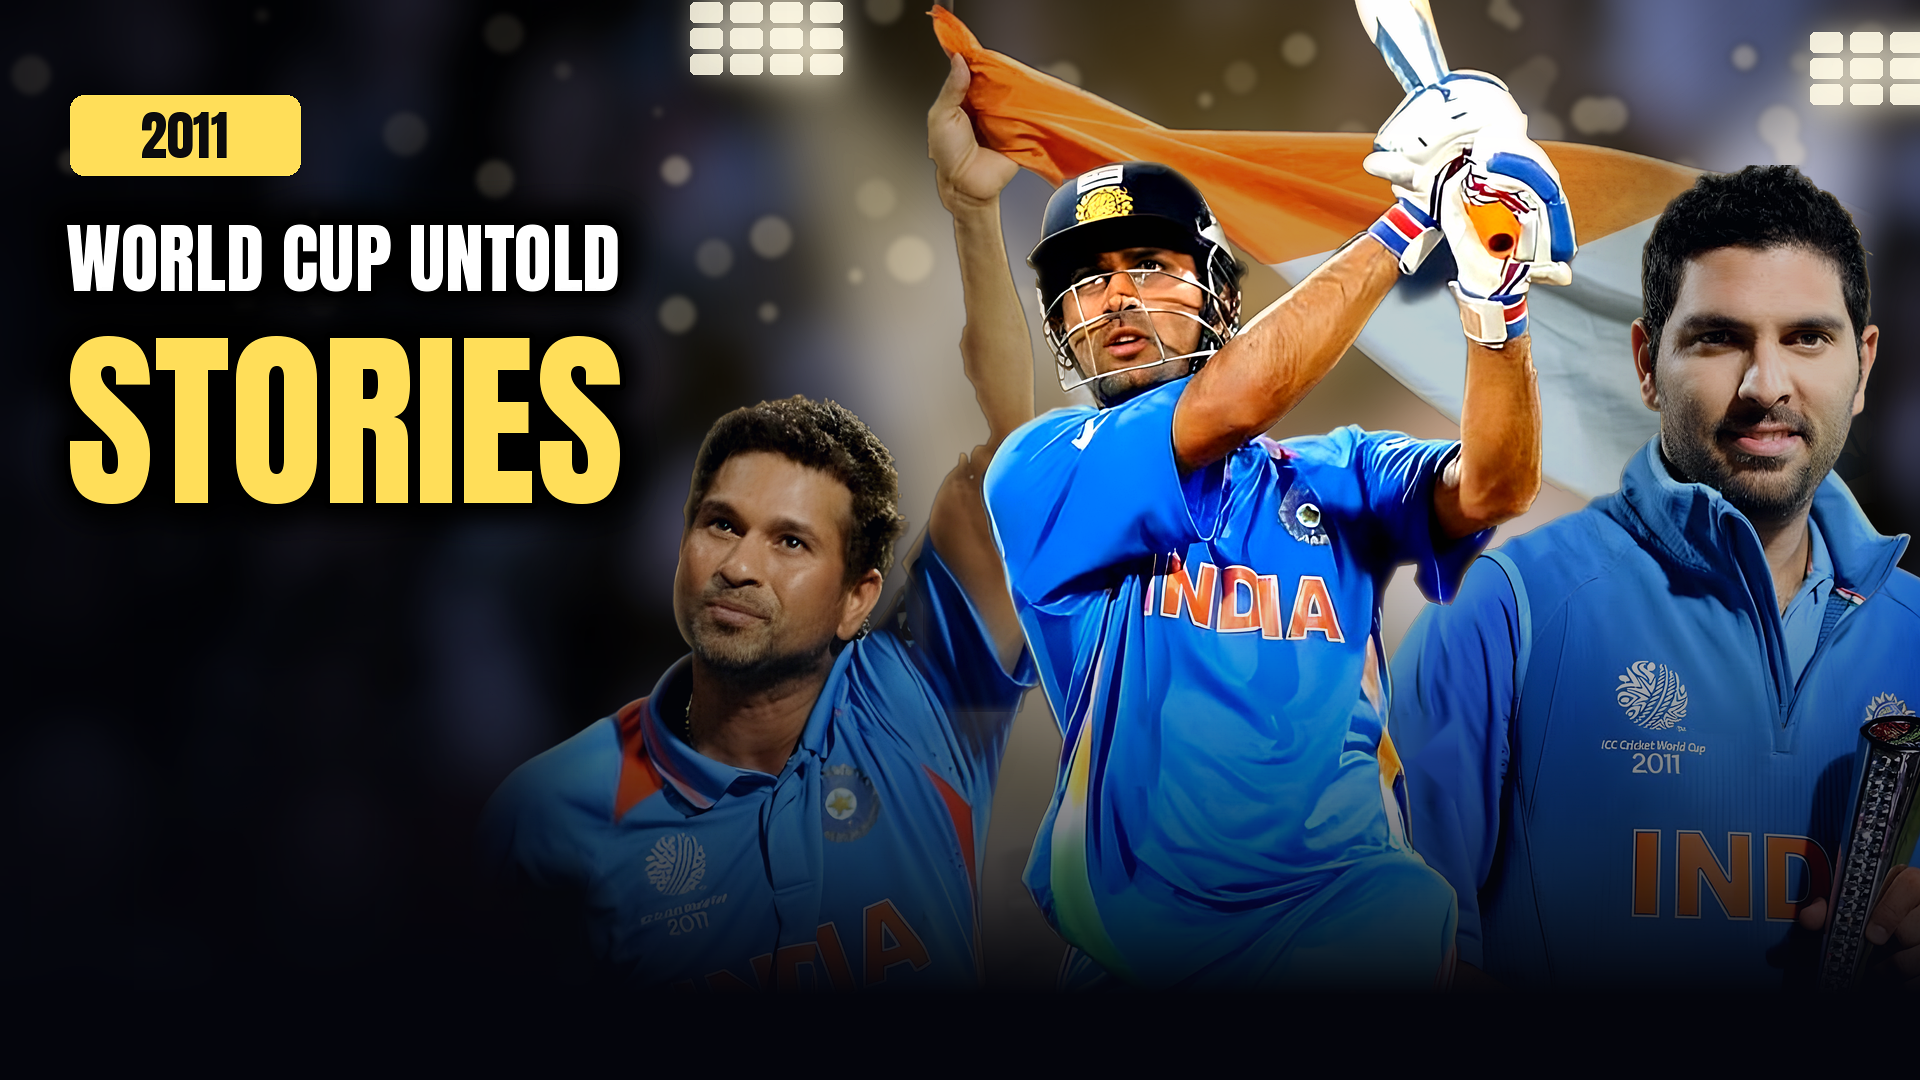
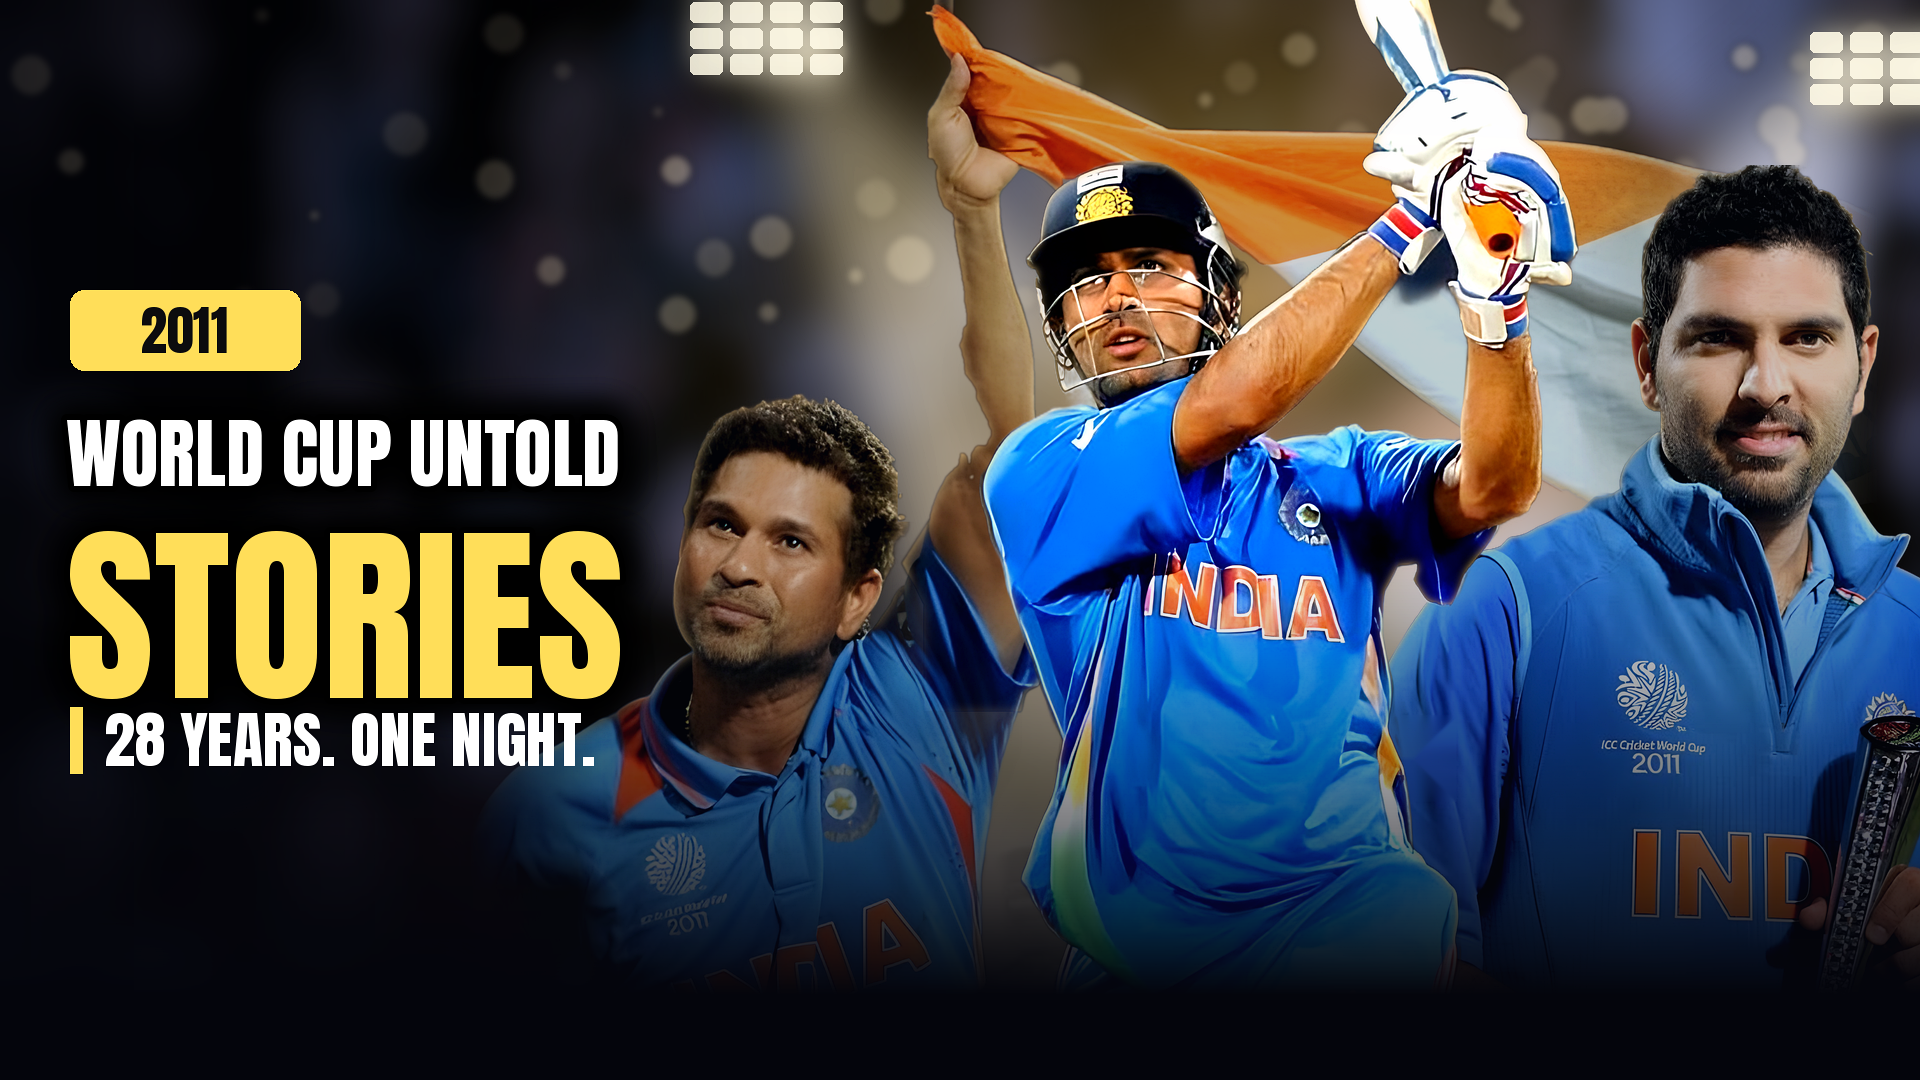
2011 thumbnail: headline centred on the left, sub-line '28 YEARS. ONE NIGHT.'
Claude-Session: https://claude.ai/code/session_01SQh72PYSr2UGL5osbLDTTd

Changed region(s): [[0.0312, 0.0611, 0.3438, 0.7333]]

diff --git a/wc2011_thumb/thumb.py b/wc2011_thumb/thumb.py
@@ -319,10 +319,16 @@ def build(line1, line2, name):
 
     d = ImageDraw.Draw(bg)
     f = ImageFont.truetype(ANTON, 54)
-    d.rounded_rectangle((70, 95, 300, 175), 14, fill=YEL)
-    d.text((185, 135), "2011", font=f, fill=(12, 12, 14), anchor="mm")
+    d.rounded_rectangle((70, 290, 300, 370), 14, fill=YEL)
+    d.text((185, 330), "2011", font=f, fill=(12, 12, 14), anchor="mm")
     fit = lambda t, w: int(200 * w / ImageFont.truetype(ANTON, 200).getlength(t))
-    text(bg, [(line1, min(fit(line1, 560), 250), (255, 255, 255)), (line2, min(fit(line2, 560), 250), YEL)], 66, 200)
+    s1, s2 = min(fit(line1, 560), 250), min(fit(line2, 560), 250)
+    text(bg, [(line1, s1, (255, 255, 255)), (line2, s2, YEL)], 66, 395)
+    # sub-line: one more beat of curiosity under the headline
+    y = 395 + int(s1 * 1.02) + int(s2 * 1.02) + 40
+    d = ImageDraw.Draw(bg)
+    d.rectangle((70, y, 82, y + 66), fill=YEL)
+    d.text((104, y + 33), "28 YEARS. ONE NIGHT.", font=ImageFont.truetype(ANTON, 62), fill=(255, 255, 255), anchor="lm")
 
     out = bg.convert("RGB")
     out = ImageEnhance.Sharpness(out).enhance(1.15)
